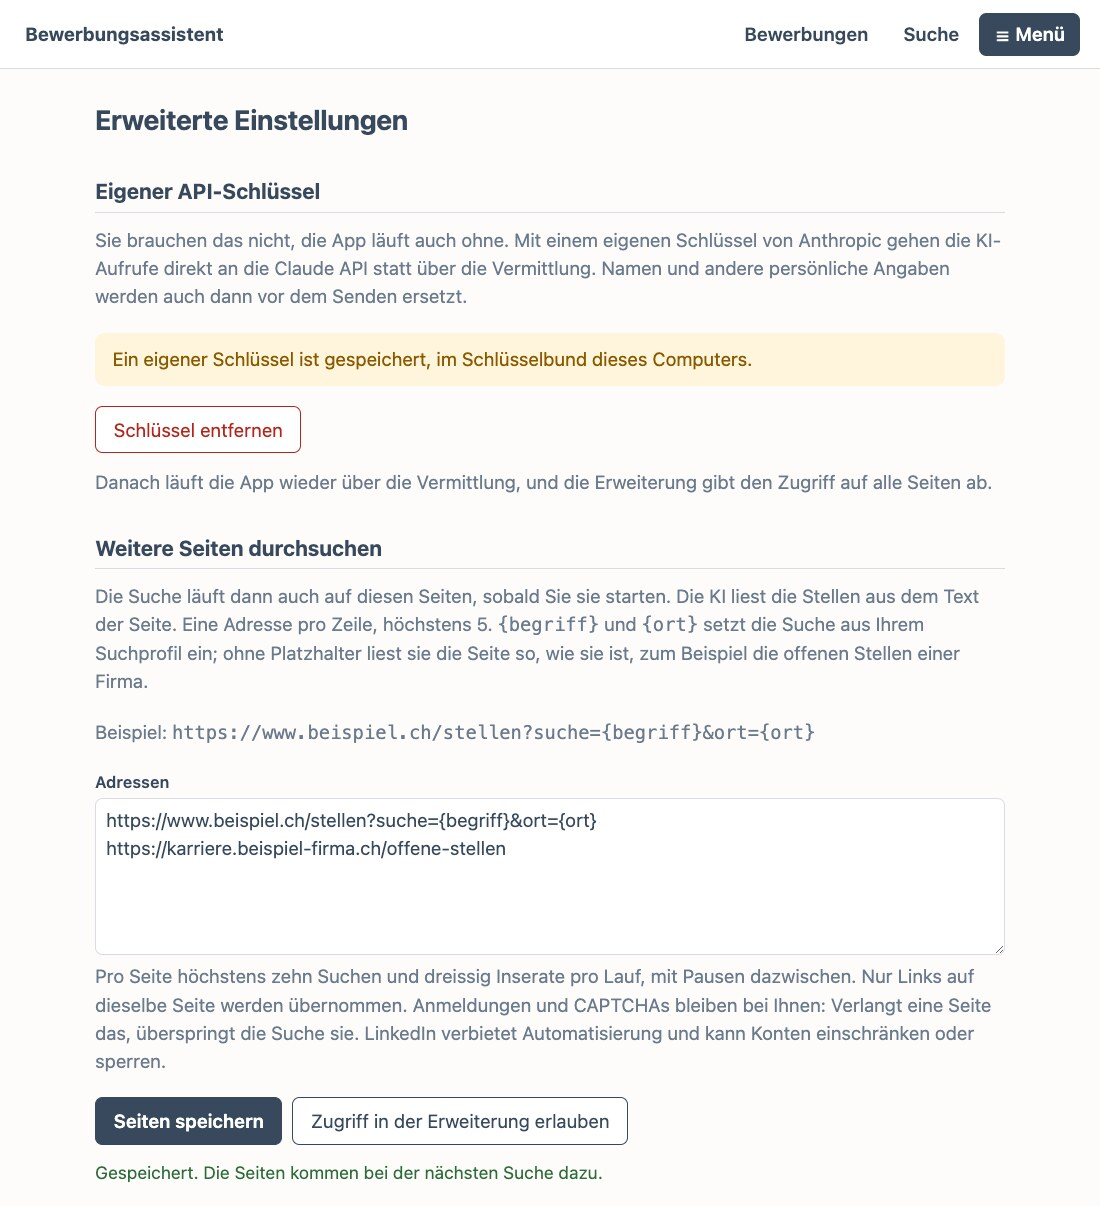
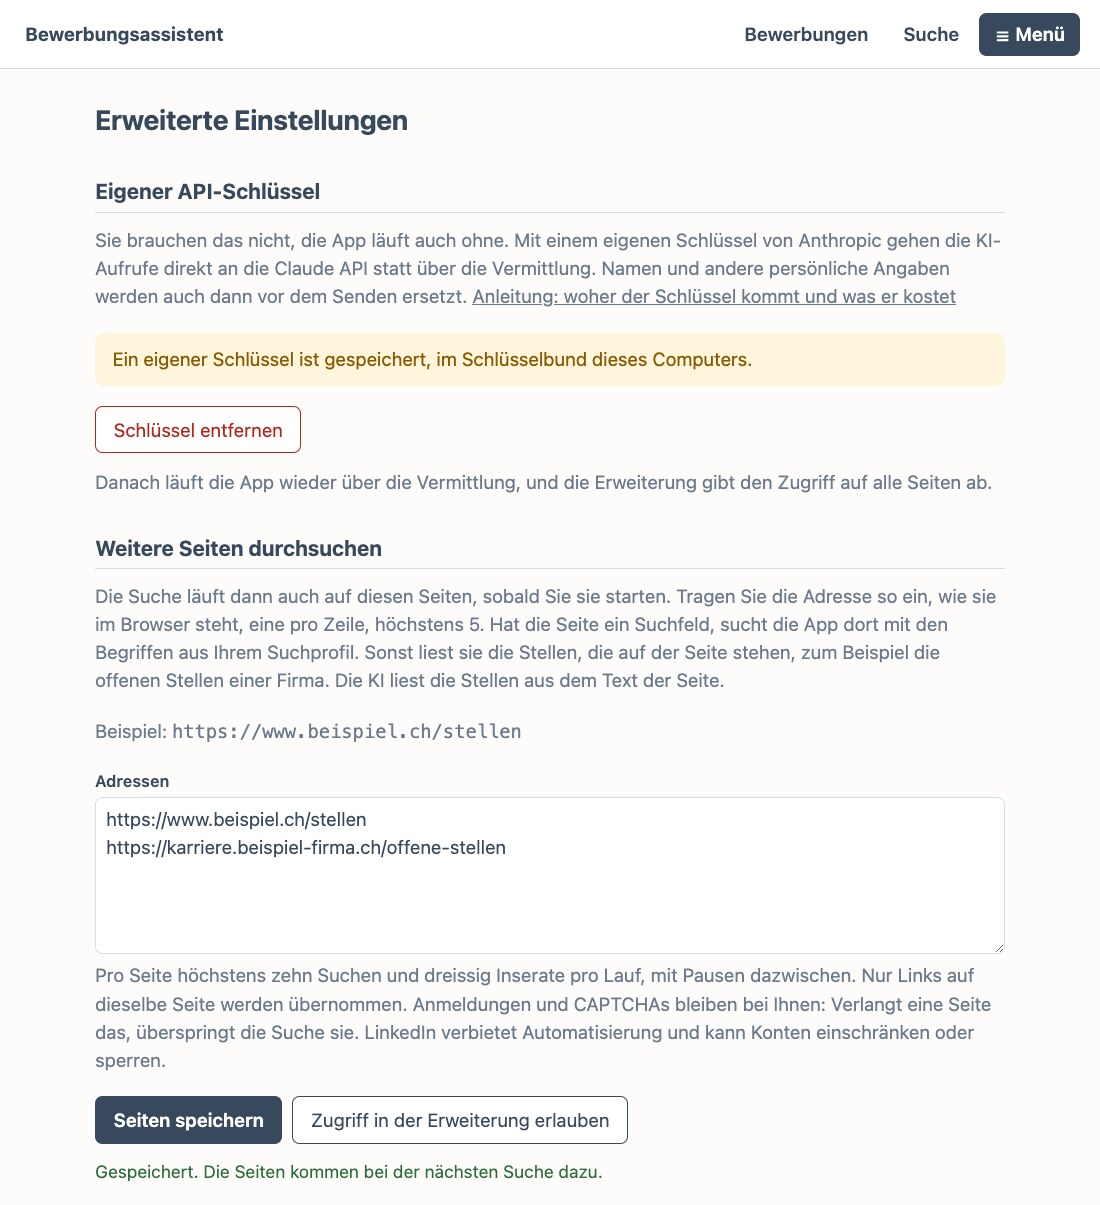
feat: enter further sites by their address only, without placeholders (MIN-387)
Nobody should have to know what {begriff} or a query parameter means. The search
reads the page at the address and then uses its search form: only GET forms on
the same site without a password field, by opening the finished address. The
address may come without https://. Titles that fit a search term get their text
first; nothing found and redirects say what to enter instead. Addresses with
placeholders keep working.

Claude-Session: https://claude.ai/code/session_01WgFHS5MLF7RQbuiBw169Uz

diff --git a/erweiterung/lib/sites.js b/erweiterung/lib/sites.js
@@ -1,24 +1,34 @@
 // Further sites the person named (MIN-348): no adapter, the AI of the app reads the list from the page's text.
+// The person enters only an address (MIN-387): the search uses the search form of that page if it finds one.
 // Only with an own API key, only after the person started the search. Sign-ins and checks stay with the person:
 // a page that asks for one ends the search on that site. The text of a page is data, nothing here acts on it.
 
 import { chunks, hitKey } from './queries.js';
 import { CANCELLED, screen, stopIfCancelled } from './steps.js';
 
-export const MAX_SITE_QUERIES = 10;
+export const MAX_SITE_QUERIES = 10; // pages per run on one site, the start page included
 export const MAX_SITE_TEXTS = 30;
 const SETTLE_MS = 1500; // lists of such pages often appear after the load event
 const SITE_DELAY_MS = 3000; // gentler than on the portals: nobody agreed on anything with these sites
 const SEND_SIZE = 10;
+const NOTHING_FOUND = 'Hier wurden keine Stellen gefunden. Öffnen Sie im Browser die Seite mit den offenen Stellen und tragen Sie deren Adresse ein.';
 const WALL_LOGIN = 'anmeldung';
 const WALLS = {
   [WALL_LOGIN]: 'verlangt eine Anmeldung',
   pruefung: 'verlangt eine Prüfung (CAPTCHA)',
 };
 
+function searchTerms(plan) {
+  return [...new Set([...(plan.stichworte || []), ...(plan.nischen || [])])];
+}
+
+function hasPlaceholders(site) {
+  return /\{(begriff|ort)\}/.test(site.adresse);
+}
+
 /** Term × place of the plan, as far as the address has places for them. */
 export function siteQueries(site, plan) {
-  const terms = [...new Set([...(plan.stichworte || []), ...(plan.nischen || [])])];
+  const terms = searchTerms(plan);
   const wantsTerm = site.adresse.includes('{begriff}');
   const wantsPlace = site.adresse.includes('{ort}');
   const places = wantsPlace && (plan.orte || []).length ? plan.orte : [''];
@@ -32,6 +42,23 @@ export function siteQueries(site, plan) {
   return { queries: queries.slice(0, MAX_SITE_QUERIES), skipped: Math.max(0, queries.length - MAX_SITE_QUERIES) };
 }
 
+/**
+ * The addresses for the search form of a page: the same as typing into it, without touching the page.
+ * One place only, so the limit goes to the terms; in a search all over Switzerland none, hits near the home come first anyway.
+ */
+export function formQueries(form, plan) {
+  const place = form.place && !plan.schweizweit ? (plan.orte || [])[0] : '';
+  const queries = searchTerms(plan).map((keyword) => {
+    const url = new URL(form.action);
+    form.hidden.forEach(([name, value]) => url.searchParams.set(name, value));
+    url.searchParams.set(form.term, keyword);
+    if (place) url.searchParams.set(form.place, place);
+    return { keyword, url: url.href };
+  });
+  const limit = MAX_SITE_QUERIES - 1;
+  return { queries: queries.slice(0, limit), skipped: Math.max(0, queries.length - limit) };
+}
+
 /** Runs inside the tab through scripting.executeScript, so it must stay self-contained. */
 export function readOpenPage() {
   const maxText = 30000;
@@ -39,6 +66,33 @@ export function readOpenPage() {
   const maxLinkText = 200;
   const visible = (element) => Boolean(element && element.offsetParent);
   const loginAddress = /\/(login|signin|sign-in|anmelden|authwall|checkpoint)\b/i;
+  const checkTitle = /just a moment|nur einen moment|security check|sicherheitsprüfung|verify you are human/i;
+  const termField = /(^|[^a-z])(q|query|keywords?|search|suche?n?|suchbegriff|begriff|stichw\w*|what|was|jobtitle|beruf|titel|title)([^a-z]|$)/i;
+  const placeField = /(^|[^a-z])(l|where|wo|ort|location|city|place|plz|zip|region|standort)([^a-z]|$)/i;
+  const notSearch = /log-?in|log-?out|sign-?in|sign-?out|anmeld|abmeld|newsletter|subscribe|abonn|kontakt|contact/i;
+  const describe = (input) => [input.name, input.id, input.placeholder, input.getAttribute('aria-label')].filter(Boolean).join(' ');
+
+  // Only forms that open a page with GET: the same as a link, nothing gets sent. A form without such fields is no search.
+  const toSearchForm = (form) => {
+    const action = form.getAttribute('action') || location.href;
+    if ((form.getAttribute('method') || 'get').toLowerCase() !== 'get' || notSearch.test(action)) return null;
+    const inputs = [...form.querySelectorAll('input')];
+    if (inputs.some((input) => input.type === 'password')) return null;
+    const fields = inputs.filter((input) => input.name && (input.type === 'search' || input.type === 'text'));
+    const isPlace = (input) => placeField.test(describe(input));
+    const term = fields.find((input) => termField.test(describe(input)) && !isPlace(input))
+      || fields.find((input) => input.type === 'search' && !isPlace(input));
+    if (!term) return null;
+    const url = new URL(action, location.href);
+    if (url.protocol !== 'https:') return null;
+    const hidden = inputs.filter((input) => input.type === 'hidden' && input.name).slice(0, 20);
+    return {
+      action: `${url.origin}${url.pathname}`,
+      term: term.name,
+      place: fields.find((input) => input !== term && isPlace(input))?.name || '',
+      hidden: hidden.map((input) => [input.name, String(input.value || '').slice(0, 200)]),
+    };
+  };
   const main = document.querySelector('main, [role="main"]');
   const links = new Map();
   // The main part first: on larger sites menus and footers would use up the limit of the app.
@@ -49,13 +103,20 @@ export function readOpenPage() {
   }
   let wall = '';
   if (loginAddress.test(new URL(location.href).pathname) || visible(document.querySelector('input[type="password"]'))) wall = 'anmeldung';
-  else if (visible(document.querySelector('iframe[src*="captcha"], .g-recaptcha, .h-captcha, #captcha, #challenge-form'))) wall = 'pruefung';
+  else if (checkTitle.test(document.title || '') || visible(document.querySelector('iframe[src*="captcha"], .g-recaptcha, .h-captcha, .cf-turnstile, #captcha, #challenge-form'))) wall = 'pruefung';
   return {
     title: (document.title || '').slice(0, 300),
     text: ((main && main.innerText) || document.body?.innerText || '').slice(0, maxText),
     links: [...links.values()],
     wall,
     host: location.hostname,
+    searchForm: [...document.querySelectorAll('form')].map((form) => {
+      try {
+        return toSearchForm(form);
+      } catch {
+        return null; // an action that is no address
+      }
+    }).find(Boolean) || null,
   };
 }
 
@@ -66,7 +127,7 @@ function onSite(page, site) {
 /** Why this page cannot be used, or '': a login, a check, or a redirect, whose text would not belong to the site. */
 function pageProblem(page, site) {
   if (page.wall) return `${site.portal} ${WALLS[page.wall] || WALLS[WALL_LOGIN]}. Das bleibt bei Ihnen: Seite selbst öffnen, danach nochmals suchen.`;
-  if (!onSite(page, site)) return `${site.portal} leitet auf eine andere Seite weiter, zum Beispiel zu einer Anmeldung. Die Suche dort hört hier auf.`;
+  if (!onSite(page, site)) return `${site.portal} leitet auf eine andere Seite weiter (${String(page.host).slice(0, 100)}), zum Beispiel zu einer Anmeldung. Die Suche dort hört hier auf. Ist das die richtige Seite, tragen Sie deren Adresse ein.`;
   return '';
 }
 
@@ -85,26 +146,54 @@ function pageOpener(plan, site, deps) {
   };
 }
 
-async function listAll(site, plan, pages, deps) {
-  const found = new Map();
-  const { queries, skipped } = siteQueries(site, plan);
-  if (!queries.length) return { found, notes: ['Im Suchprofil fehlen Suchbegriffe für diese Adresse.'] };
+/** One page into the list of hits; returns what stops this site, or ''. */
+async function visit(url, keyword, site, found, pages, deps) {
+  stopIfCancelled(deps);
+  deps.report({ portal: site.portal, phase: 'suche', stichwort: keyword || site.portal, seite: 1, gefunden: found.size });
+  const page = await pages.go(url);
+  const problem = pageProblem(page, site);
+  if (problem) return { problem };
+  try {
+    const answer = await deps.app.request('POST', '/api/suche/seite-lesen', { portal: site.portal, titel: page.title, text: page.text, links: page.links });
+    for (const hit of answer.treffer) found.set(hitKey(hit), hit);
+  } catch (error) {
+    return { problem: error.message };
+  }
+  await deps.sleep(SITE_DELAY_MS);
+  return { page };
+}
+
+async function runQueries({ queries, skipped }, site, found, pages, deps) {
   const notes = skipped ? [`${skipped} Suchen ausgelassen (höchstens ${queries.length}).`] : [];
   for (const query of queries) {
-    stopIfCancelled(deps);
-    deps.report({ portal: site.portal, phase: 'suche', stichwort: query.keyword || site.portal, seite: 1, gefunden: found.size });
-    const page = await pages.go(query.url);
-    const problem = pageProblem(page, site);
-    if (problem) return { found, notes: [...notes, problem] };
-    try {
-      const answer = await deps.app.request('POST', '/api/suche/seite-lesen', { portal: site.portal, titel: page.title, text: page.text, links: page.links });
-      for (const hit of answer.treffer) found.set(hitKey(hit), hit);
-    } catch (error) {
-      return { found, notes: [...notes, error.message] };
-    }
-    await deps.sleep(SITE_DELAY_MS);
+    const { problem } = await visit(query.url, query.keyword, site, found, pages, deps);
+    if (problem) return [...notes, problem];
   }
-  return { found, notes };
+  return notes;
+}
+
+/** Only the address: the page itself, then its search form, if that stays on the site. */
+async function listFromAddress(site, plan, found, pages, deps) {
+  const { page, problem } = await visit(site.adresse, '', site, found, pages, deps);
+  if (problem) return [problem];
+  const form = page.searchForm;
+  if (!form || !onSite({ host: new URL(form.action).hostname }, site)) return [];
+  return runQueries(formQueries(form, plan), site, found, pages, deps);
+}
+
+async function listAll(site, plan, pages, deps) {
+  const found = new Map();
+  if (!hasPlaceholders(site)) return { found, notes: await listFromAddress(site, plan, found, pages, deps) };
+  const planned = siteQueries(site, plan);
+  if (!planned.queries.length) return { found, notes: ['Im Suchprofil fehlen Suchbegriffe für diese Adresse.'] };
+  return { found, notes: await runQueries(planned, site, found, pages, deps) };
+}
+
+/** A fixed list can hold anything: what fits the search goes first, so the limit of texts takes those. */
+function fittingFirst(hits, plan) {
+  const terms = searchTerms(plan).map((term) => term.toLowerCase());
+  const fits = (hit) => terms.some((term) => String(hit.stelle || '').toLowerCase().includes(term));
+  return [...hits.filter(fits), ...hits.filter((hit) => !fits(hit))];
 }
 
 async function sendTexts(site, wanted, pages, deps) {
@@ -136,12 +225,13 @@ export async function searchSite(site, plan, deps) {
   const pages = pageOpener(plan, site, deps);
   try {
     const { found, notes } = await listAll(site, plan, pages, deps);
-    const wanted = await screen(found, deps.app);
+    const wanted = fittingFirst(await screen(found, deps.app), plan);
     const left = wanted.length - MAX_SITE_TEXTS;
     const { added, missing, note } = await sendTexts(site, wanted.slice(0, MAX_SITE_TEXTS), pages, deps);
     const later = left > 0 ? `${left} Inserate kommen bei der nächsten Suche.` : '';
     const empty = missing ? `${missing} Inserate ohne lesbaren Text.` : '';
-    return { treffer: found.size, neu: added, problem: [...notes, note, empty, later].filter(Boolean).join(' ') };
+    const nothing = !found.size && !notes.length ? NOTHING_FOUND : '';
+    return { treffer: found.size, neu: added, problem: [...notes, nothing, note, empty, later].filter(Boolean).join(' ') };
   } catch (error) {
     if (error.cancelled || deps.cancelled?.()) return { treffer: 0, neu: 0, problem: `${site.portal}: ${CANCELLED}` };
     return { treffer: 0, neu: 0, problem: `${site.portal}: ${error.message}` };

diff --git a/bewerbungen/seiten/einstellungen.html b/bewerbungen/seiten/einstellungen.html
@@ -22,8 +22,8 @@
     <p class="hilfe">Danach läuft die App wieder über die Vermittlung, und die Erweiterung gibt den Zugriff auf alle Seiten ab.</p>
 
     <h2>Weitere Seiten durchsuchen</h2>
-    <p class="hilfe">Die Suche läuft dann auch auf diesen Seiten, sobald Sie sie starten. Die KI liest die Stellen aus dem Text der Seite. Eine Adresse pro Zeile, höchstens <span id="max-seiten"></span>. <code>{begriff}</code> und <code>{ort}</code> setzt die Suche aus Ihrem Suchprofil ein; ohne Platzhalter liest sie die Seite so, wie sie ist, zum Beispiel die offenen Stellen einer Firma.</p>
-    <p class="hilfe">Beispiel: <code>https://www.beispiel.ch/stellen?suche={begriff}&amp;ort={ort}</code></p>
+    <p class="hilfe">Die Suche läuft dann auch auf diesen Seiten, sobald Sie sie starten. Tragen Sie die Adresse so ein, wie sie im Browser steht, eine pro Zeile, höchstens <span id="max-seiten"></span>. Hat die Seite ein Suchfeld, sucht die App dort mit den Begriffen aus Ihrem Suchprofil. Sonst liest sie die Stellen, die auf der Seite stehen, zum Beispiel die offenen Stellen einer Firma. Die KI liest die Stellen aus dem Text der Seite.</p>
+    <p class="hilfe">Beispiel: <code>https://www.beispiel.ch/stellen</code></p>
     <label for="seiten">Adressen</label>
     <textarea id="seiten" rows="5" spellcheck="false" autocomplete="off"></textarea>
     <p class="hilfe">Pro Seite höchstens zehn Suchen und dreissig Inserate pro Lauf, mit Pausen dazwischen. Nur Links auf dieselbe Seite werden übernommen. Anmeldungen und CAPTCHAs bleiben bei Ihnen: Verlangt eine Seite das, überspringt die Suche sie. LinkedIn verbietet Automatisierung und kann Konten einschränken oder sperren.</p>

diff --git a/bewerbungen/own_sites.py b/bewerbungen/own_sites.py
@@ -1,7 +1,8 @@
 """Further sites for the search, named by the person (MIN-348): they only count with an own API key.
 
-An address is a search page with the placeholders {begriff} and {ort}, or a fixed page such as a company's
-list of open jobs. Sites with their own adapter stay with it. Hits stay on the site's host: the name of the site is
+An address is what the person sees in the browser (MIN-387): the extension uses the search form of that page if it
+has one and reads the page either way. Addresses with the placeholders {begriff} and {ort} keep working, but nobody
+should have to know them. Sites with their own adapter stay with it. Hits stay on the site's host: the name of the site is
 its host, and `hits.checked_link` holds links to it.
 """
 import hashlib
@@ -60,6 +61,8 @@ def clean(address) -> dict:
         raise _refuse(address, "Das ist keine Adresse.")
     if len(address) > MAX_ADDRESS or any(c in address for c in FORBIDDEN_CHARACTERS) or any(ord(c) < 0x20 for c in address):
         raise _refuse(address, "Die Adresse ist zu lang oder enthält Zeichen, die nicht in eine Adresse gehören.")
+    if "://" not in address:
+        address = f"https://{address}"
     if not set(PLACEHOLDER.findall(address)) <= ALLOWED_PLACEHOLDERS or PLACEHOLDER.sub("", address).count("{") + PLACEHOLDER.sub("", address).count("}"):
         raise _refuse(address, "Erlaubt sind nur die Platzhalter {begriff} und {ort}.")
     portal = _portal(address)

diff --git a/bewerbungen/tests/test_own_sites.py b/bewerbungen/tests/test_own_sites.py
@@ -68,12 +68,18 @@ def test_good_addresses(address):
     assert own_sites.clean(address)["adresse"] == address
 
 
+@pytest.mark.parametrize("typed", ["beispiel.ch/stellen", "www.beispiel.ch/stellen"])
+def test_an_address_without_https_is_completed(typed):
+    site = own_sites.clean(typed)
+    assert site["adresse"] == f"https://{typed}" and site["portal"] == "beispiel.ch"
+
+
 def test_the_portal_is_the_host_without_www():
     assert own_sites.clean(SEARCH)["portal"] == PORTAL
 
 
 @pytest.mark.parametrize("address", [
-    "", None, 5, "beispiel.ch", "http://www.beispiel.ch/", "ftp://beispiel.ch", "https://localhost/x",
+    "", None, 5, "intranet", "mailto:a@b.ch", "http://www.beispiel.ch/", "ftp://beispiel.ch", "https://localhost/x",
     "https://127.0.0.1/x", "https://[::1]/x", "https://intranet/x", "https://drucker.local/x", "https://a.ch:8443/x",
     "https://nutzer:geheim@a.ch/x", "https://a.ch/x y", "https://a.ch\\@b.ch/", "https://{begriff}.ch/x",
     "https://a.ch/?q={anderes}", "https://a.ch/{", "https://a.ch/" + "x" * 600, "https://a.ch/\n",

diff --git a/erweiterung/README.md b/erweiterung/README.md
@@ -34,8 +34,8 @@ Die App nimmt über den Host nur diese vier Anfragen und die zwei für die offen
 Nur mit eigenem API-Schlüssel, die Adressen trägt die Person in der App unter „Erweiterte Einstellungen“ ein.
 
 - **Zugriff:** Das braucht den optionalen Zugriff auf alle Seiten. Die Erlaubnis gibt die Person selbst, in einem eigenen Tab (`erlauben.html?fuer=suche`). Fehlt sie, läuft die Suche auf den Portalen trotzdem und nennt die fehlende Erlaubnis in der Zusammenfassung.
-- **Ablauf:** `lib/sites.js` setzt Begriff und Ort in die Adresse ein, öffnet sie im Tab und schickt Text und Linktexte an die App (`POST /api/suche/seite-lesen`). Die App nennt die Stellen zurück; deren Inserate liest die Erweiterung ebenfalls im Tab, mit einer Pause dazwischen. Danach gehen sie denselben Weg wie die Treffer der Portale.
-- **Grenzen:** Nur die erste Ergebnisseite, höchstens 10 Suchen und 30 Inserate pro Seite. Sie folgt nur Links auf derselben Seite und klickt oder schickt nichts ab. Das Öffnen geschieht mit den Cookies der Person; ein Link wie `/logout` in der Liste würde also aufgerufen, wenn die KI ihn als Stelle nennt. Leitet eine Seite auf eine andere um, hört die Suche dort auf.
+- **Ablauf:** Die Person trägt nur die Adresse ein (MIN-387). `lib/sites.js` öffnet sie im Tab, schickt Text und Linktexte an die App (`POST /api/suche/seite-lesen`) und sucht danach über das Suchformular der Seite, wenn es eines gibt: nur `method=get`, nur auf derselben Seite, ohne Passwortfeld; das Ausfüllen und Abschicken ersetzt ein Aufruf der fertigen Adresse, die Seite wird nicht bedient. Adressen mit `{begriff}` und `{ort}` laufen wie bisher. Die App nennt die Stellen zurück; deren Inserate liest die Erweiterung ebenfalls im Tab, mit einer Pause dazwischen. Danach gehen sie denselben Weg wie die Treffer der Portale.
+- **Grenzen:** Nur die erste Ergebnisseite, höchstens 10 Seiten (die Startseite mitgezählt) und 30 Inserate pro Seite, was zum Suchbegriff passt zuerst. Sie folgt nur Links auf derselben Seite und klickt oder schickt nichts ab. Das Öffnen geschieht mit den Cookies der Person; ein Link wie `/logout` in der Liste würde also aufgerufen, wenn die KI ihn als Stelle nennt. Leitet eine Seite auf eine andere um, hört die Suche dort auf.
 - **Abgeben:** Wird der Schlüssel entfernt, gibt die Erweiterung den Zugriff ab, spätestens beim nächsten Kontakt mit der App. Danach lädt sie sich neu (`lib/reload.js`), denn Chrome entzieht mit `<all_urls>` auch die Portale aus dem Manifest, bis die Erweiterung wieder geladen ist. Während einer Suche, offener Formulare oder eines Laufs im Job-Room wartet sie damit. Das betrifft auch Formulare (MIN-346): Dort fragt sie beim nächsten Formular neu. Ist der Schlüsselbund gesperrt, ändert sich nichts.
 
 ## Stelle auf der offenen Seite prüfen oder speichern (MIN-345)

diff --git a/bewerbungen/README.md b/bewerbungen/README.md
@@ -89,7 +89,7 @@ Auf der Seite **Suche** bewertet die KI in Paketen von zehn Inseraten pro Anfrag
 - **Inserate sind Daten**: Zeilen, die sich an eine KI richten, befolgt sie nicht; die Oberfläche zeigt sie als „verdächtige Zeile“.
 - **Verbindung**: im Pilot über die [Vermittlung](../vermittlung/README.md) (`BEWERBUNGSASSISTENT_KI_URL`). Die Person gibt einmal ihren Einladungscode ein; die App löst ihn ein und legt den Zugang im Schlüsselbund des Systems ab (oder `BEWERBUNGSASSISTENT_KI_ZUGANG`). Die Seite zeigt dann Verbrauch und Budget des Monats. Zum Entwickeln direkt mit `ANTHROPIC_API_KEY`. Ohne Verbindung bleiben die Knöpfe aus und die Seite sagt, was fehlt.
 - **Eigener Schlüssel** (Seite „Erweiterte Einstellungen“): Wer einen eigenen Schlüssel für die Claude API hat, trägt ihn dort ein. Er liegt nur im Schlüsselbund des Systems und geht vor der Vermittlung; die Kosten trägt die Person selbst. Schritt für Schritt in der [Anleitung](../docs/installation.md#eigener-api-schlüssel-freiwillig).
-- **Weitere Seiten durchsuchen** (nur mit eigenem Schlüssel): bis zu fünf Adressen mit `{begriff}` und `{ort}` als Platzhalter, zum Beispiel `https://www.beispiel.ch/jobs?q={begriff}&ort={ort}`. Die Erweiterung öffnet sie bei jeder Suche im Tab; die KI liest Seitentext und Linktexte und nennt die Stellen. Sie bekommt weder Adressen noch Lebenslauf. Pro Seite gelten die erste Ergebnisseite, höchstens 10 Suchen und 30 Inserate. Anmeldungen und Prüfungen wie CAPTCHAs bleiben bei der Person: Die Seite wird dann übersprungen und in der Zusammenfassung genannt.
+- **Weitere Seiten durchsuchen** (nur mit eigenem Schlüssel): bis zu fünf Adressen, so wie sie im Browser stehen. Die Erweiterung öffnet sie bei jeder Suche im Tab und nutzt das Suchfeld der Seite, wenn sie eines findet (nur Formulare mit GET auf derselben Seite; die Platzhalter `{begriff}` und `{ort}` funktionieren weiterhin). Die KI liest Seitentext und Linktexte und nennt die Stellen. Sie bekommt weder Adressen noch Lebenslauf. Pro Seite gelten die erste Ergebnisseite, höchstens 10 Suchen und 30 Inserate. Anmeldungen und Prüfungen wie CAPTCHAs bleiben bei der Person: Die Seite wird dann übersprungen und in der Zusammenfassung genannt.
 - **Kosten**: `.ki/nutzung.jsonl` hält pro Anfrage Modell, Tokens und Kosten fest; die Seite zeigt die Summe des Monats.
 
 ## Kommandozeile

diff --git a/docs/installation.md b/docs/installation.md
@@ -123,15 +123,15 @@ Mit gespeichertem Schlüssel erscheint auf derselben Seite dieser Abschnitt. Hie
 
 ![Abschnitt Weitere Seiten durchsuchen mit zwei erfundenen Adressen und den Knöpfen Seiten speichern und Zugriff in der Erweiterung erlauben](bilder/einstellungen-seiten.jpg)
 
-1. Unter **Adressen** höchstens fünf Adressen eintragen, eine pro Zeile. Sie müssen mit `https://` beginnen.
-   - Hat die Seite eine eigene Suche, setzen Sie `{begriff}` und `{ort}` in die Adresse. Die App ersetzt sie durch die Angaben aus Ihrem Suchprofil, etwa so: `https://www.beispiel.ch/stellen?suche={begriff}&ort={ort}`.
-   - Ohne Platzhalter liest die Suche die Seite so, wie sie ist.
+1. Unter **Adressen** höchstens fünf Adressen eintragen, eine pro Zeile. Kopieren Sie die Adresse einfach aus der Adresszeile des Browsers, etwa `https://www.beispiel.ch/stellen`.
 2. Auf **Seiten speichern** klicken.
 3. Auf **Zugriff in der Erweiterung erlauben** klicken. Die Erweiterung öffnet eine eigene Seite. Dort klicken Sie auf **Zugriff erlauben und weiter** und bestätigen die Frage des Browsers. Das ist einmal nötig.
 
-Ab der nächsten Suche kommen die Seiten dazu. Die Suche liest pro Seite und Lauf höchstens zehn Suchen und dreissig Inserate, mit Pausen dazwischen. Verlangt eine Seite eine Anmeldung oder ein CAPTCHA, überspringt die Suche sie. Das erledigt die App nicht für Sie.
+Ab der nächsten Suche kommen die Seiten dazu. Hat eine Seite ein Suchfeld, sucht die App dort mit den Begriffen aus Ihrem Suchprofil. Sonst liest sie die Stellen, die auf der Seite stehen. Findet sie nichts, öffnen Sie im Browser die Seite mit den offenen Stellen und tragen deren Adresse ein.
 
-**LinkedIn** verbietet Automatisierung und kann Konten einschränken oder sperren. Tragen Sie LinkedIn als Seite ein, liegt dieses Risiko bei Ihnen.
+Die Suche liest pro Seite und Lauf höchstens zehn Ergebnisseiten und dreissig Inserate, mit Pausen dazwischen. Verlangt eine Seite eine Anmeldung oder ein CAPTCHA, überspringt die Suche sie. Das erledigt die App nicht für Sie.
+
+**LinkedIn** verbietet Automatisierung und kann Konten einschränken oder sperren. Tragen Sie LinkedIn als Seite ein, liegt dieses Risiko bei Ihnen. Auch andere Portale regeln in ihren Bedingungen, was automatisiert erlaubt ist. Prüfen Sie das, bevor Sie ein Portal eintragen.
 
 ### Schlüssel entfernen
 
